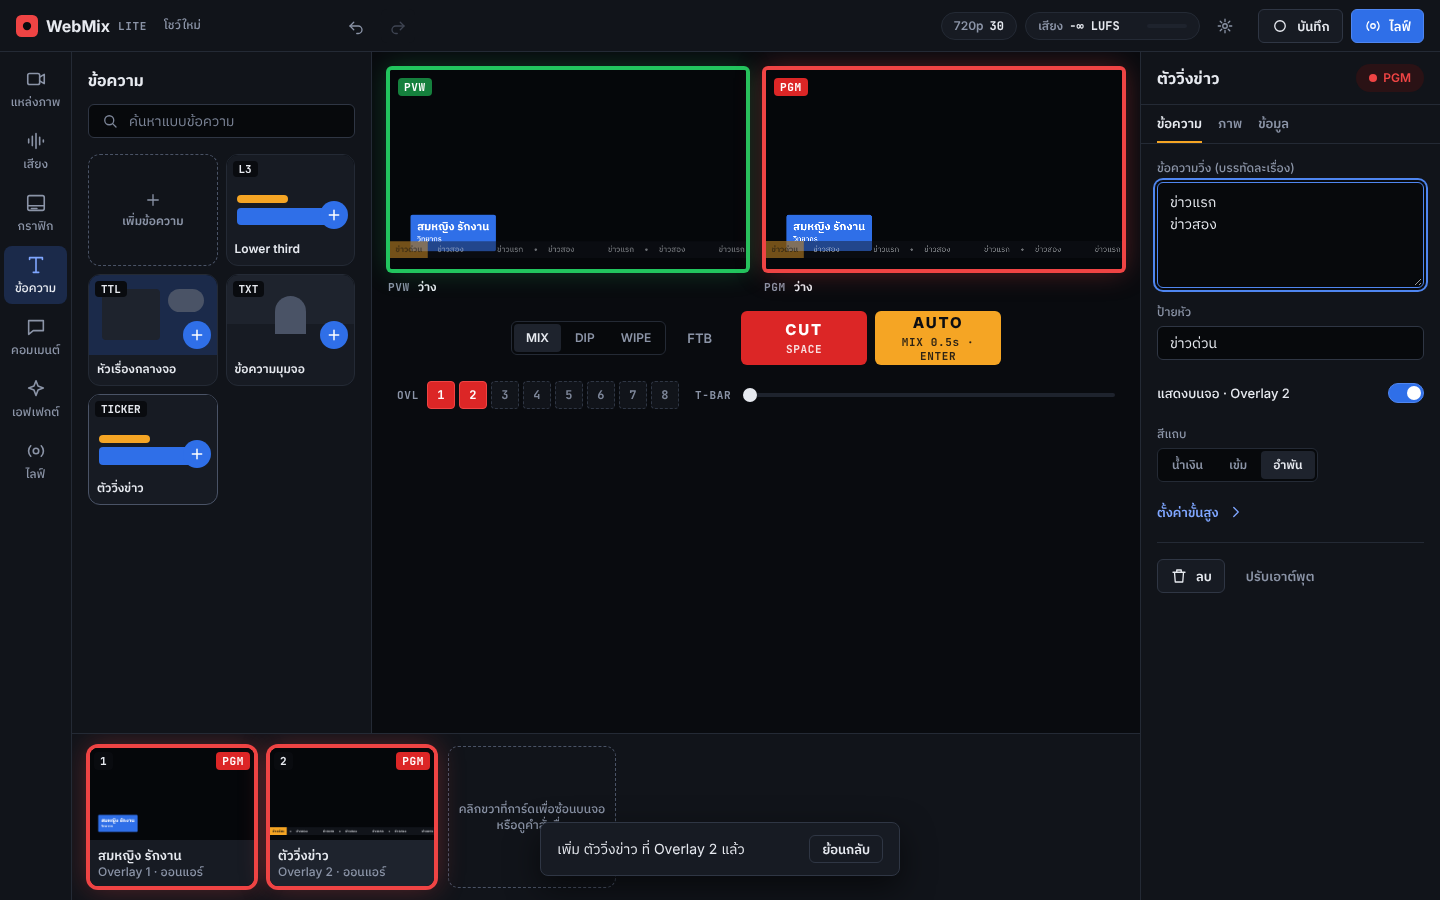
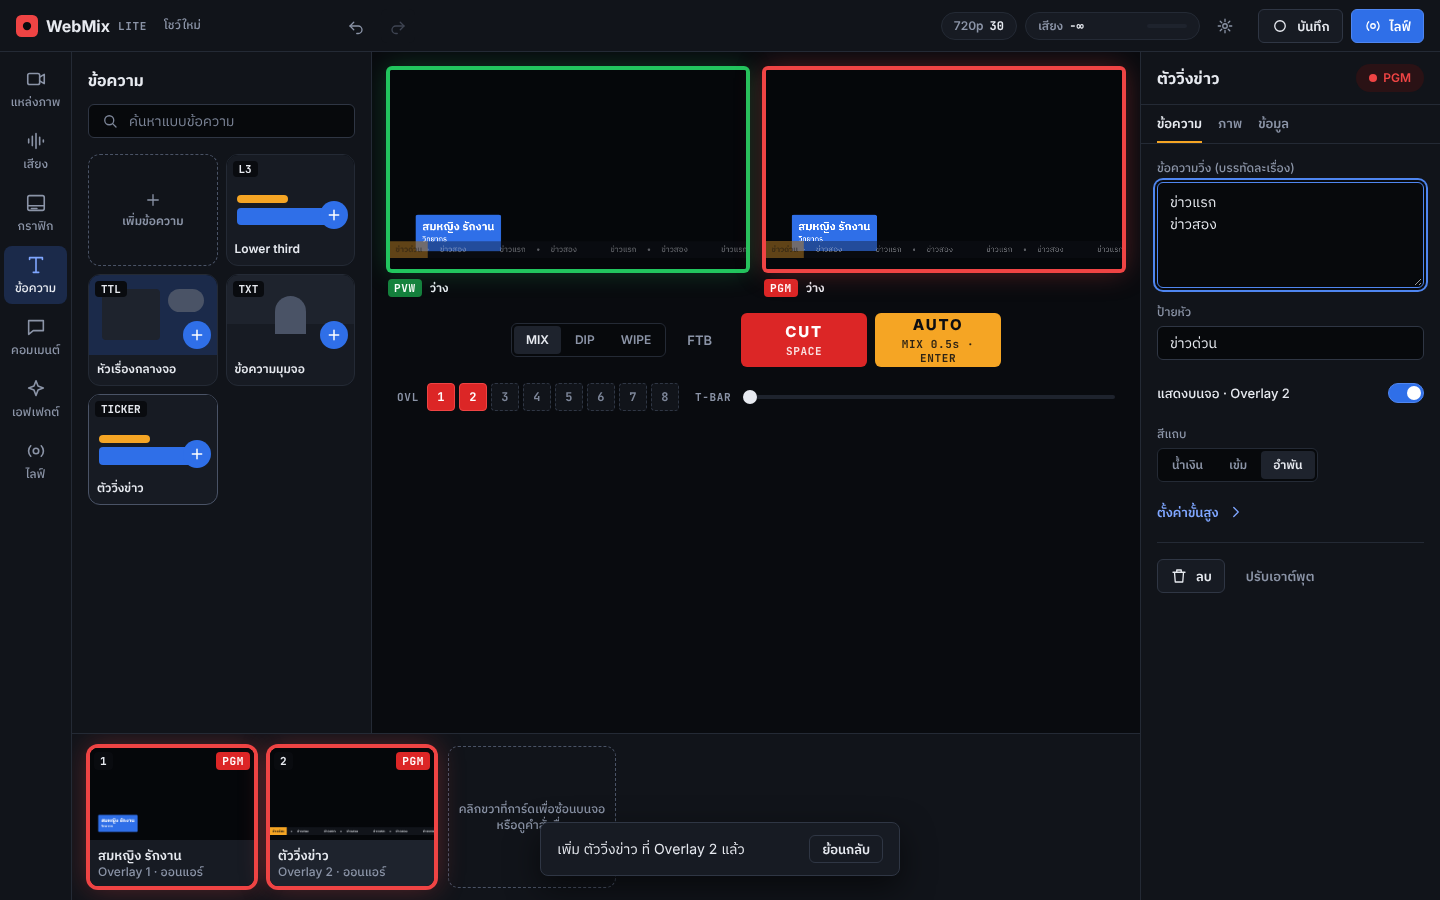
Keep monitor tally labels off the picture so corner graphics stay visible
- PVW / PGM words move from inside the monitors to filled tags in the captions below
- Scoreboard sits inside the title-safe area and is drawn larger

Claude-Session: https://claude.ai/code/session_018is4AeNXbb7A8QyXR8Seq6

diff --git a/src/engine.ts b/src/engine.ts
@@ -368,14 +368,15 @@ function drawTimer(ctx: CanvasRenderingContext2D, s: Source, W: number, H: numbe
 function drawScore(ctx: CanvasRenderingContext2D, s: Source, W: number, H: number): void {
   const p = s.props;
   const u = H / 720;
-  const x = 40 * u, rowH = 52 * u, nameW = 240 * u, scoreW = 72 * u, bar = 10 * u;
+  // inside the title-safe area (5 % in from the edges)
+  const x = 64 * u, top = 48 * u, rowH = 60 * u, nameW = 280 * u, scoreW = 84 * u, bar = 12 * u;
   const rows: [string, number, string][] = [
     [p.teamA, p.scoreA, p.colorA || tk('accent')],
     [p.teamB, p.scoreB, p.colorB || tk('pgm-fill')],
   ];
   ctx.textBaseline = 'middle';
   rows.forEach(([team, score, color], i) => {
-    const y = 40 * u + i * rowH;
+    const y = top + i * rowH;
     ctx.fillStyle = color;
     ctx.fillRect(x, y, bar, rowH);
     ctx.fillStyle = tk('panel');
@@ -384,21 +385,21 @@ function drawScore(ctx: CanvasRenderingContext2D, s: Source, W: number, H: numbe
     ctx.fillRect(x + bar + nameW, y, scoreW, rowH);
     ctx.fillStyle = tk('text');
     ctx.textAlign = 'left';
-    ctx.font = font(700, 26 * u);
+    ctx.font = font(700, 30 * u);
     ctx.fillText(team, x + bar + 16 * u, y + rowH / 2, nameW - 24 * u);
     ctx.textAlign = 'center';
-    ctx.font = font(700, 30 * u, 'font-mono');
+    ctx.font = font(700, 36 * u, 'font-mono');
     ctx.fillText(String(score), x + bar + nameW + scoreW / 2, y + rowH / 2);
   });
   if (p.period) {
-    const y = 40 * u + rowH * 2;
-    ctx.font = font(600, 22 * u);
-    const pw = ctx.measureText(p.period).width + 24 * u;
+    const y = top + rowH * 2;
+    ctx.font = font(600, 26 * u);
+    const pw = ctx.measureText(p.period).width + 28 * u;
     ctx.fillStyle = tk('amber');
-    ctx.fillRect(x, y, pw, 36 * u);
+    ctx.fillRect(x, y, pw, 42 * u);
     ctx.fillStyle = tk('on-amber');
     ctx.textAlign = 'left';
-    ctx.fillText(p.period, x + 12 * u, y + 18 * u);
+    ctx.fillText(p.period, x + 14 * u, y + 21 * u);
   }
 }
 

diff --git a/tests/graphics.spec.ts b/tests/graphics.spec.ts
@@ -153,7 +153,15 @@ test('countdown timer runs, pauses and resets', async ({ page }) => {
 
 test('scoreboard buttons and title presets', async ({ page }) => {
   await page.goto('/');
+  await addTile(page, 'source', 'bars');
   await addTile(page, 'graphic', 'g-score');
+  // nothing sits on top of the pictures: the tally words live under the monitors
+  for (const id of ['#mon-pvw', '#mon-pgm']) {
+    expect(await page.locator(`${id} > *`).evaluateAll((els) => els.map((e) => e.tagName))).toEqual(['CANVAS']);
+  }
+  await expect(page.locator('#cap-pgm .mon__tag--pgm')).toHaveText('PGM');
+  // the scoreboard is drawn inside the title-safe corner, over the bars
+  await expect.poll(() => pgmPixel(page, 0.1, 0.1)).not.toEqual([191, 191, 191]);
   const plusA = insp(page).locator('[data-act="score"][data-team="A"][data-d="1"]');
   await plusA.click();
   await plusA.click();
@@ -169,7 +177,7 @@ test('scoreboard buttons and title presets', async ({ page }) => {
   await insp(page).locator('[data-prop="p:title"]').fill('คนอื่น');
   await insp(page).locator('[data-act="preset"]').first().click();
   await expect(insp(page).locator('[data-prop="p:title"]')).toHaveValue('สมชาย ใจดี');
-  await expect(cards(page).nth(1)).toContainText('สมชาย ใจดี');
+  await expect(cards(page).nth(2)).toContainText('สมชาย ใจดี');
 });
 
 test('ticker items and live data from a Google Sheet', async ({ page }) => {

diff --git a/src/main.ts b/src/main.ts
@@ -985,8 +985,9 @@ function renderStrip(): void {
 function renderTally(): void {
   const pvw = byId(scene.pvw);
   const pgm = byId(trans?.to ?? scene.pgm);
-  $('#cap-pvw').innerHTML = `<span class="tag">PVW</span><span class="mon__name" data-testid="pvw-name">${pvw ? esc(pvw.name) : 'ว่าง'}</span>`;
-  $('#cap-pgm').innerHTML = `<span class="tag">PGM</span><span class="mon__name" data-testid="pgm-name">${pgm ? esc(pgm.name) : 'ว่าง'}</span>`;
+  // the tally word sits under the picture, never over it, so graphics in the corners stay visible
+  $('#cap-pvw').innerHTML = `<span class="tag mon__tag mon__tag--pvw">PVW</span><span class="mon__name" data-testid="pvw-name">${pvw ? esc(pvw.name) : 'ว่าง'}</span>`;
+  $('#cap-pgm').innerHTML = `<span class="tag mon__tag mon__tag--pgm">PGM</span><span class="mon__name" data-testid="pgm-name">${pgm ? esc(pgm.name) : 'ว่าง'}</span>`;
   $('#mon-pgm').dataset.source = scene.pgm ?? '';
   $('#mon-pvw').dataset.source = scene.pvw ?? '';
   document.querySelectorAll<HTMLElement>('#strip .wm-card').forEach((el) => {

diff --git a/src/app.css b/src/app.css
@@ -97,6 +97,9 @@ button, input { font: inherit; color: inherit; }
 .wm-mon canvas { display: block; width: 100%; height: 100%; }
 .wm-mon.is-drop { outline: 2px dashed var(--accent-line); outline-offset: 4px; }
 .mon__cap { display: flex; align-items: center; gap: var(--space-2); font: 500 12px/16px var(--font-sans); color: var(--muted); min-width: 0; }
+.mon__tag { flex: none; padding: 2px 6px; border-radius: var(--radius-xs); color: var(--on-accent); }
+.mon__tag--pvw { background: var(--pvw-fill); }
+.mon__tag--pgm { background: var(--pgm-fill); }
 .mon__name { color: var(--text); font-weight: 600; white-space: nowrap; overflow: hidden; text-overflow: ellipsis; }
 .trans { display: flex; align-items: center; justify-content: center; gap: var(--space-4); flex-wrap: wrap; }
 .trans__seg { display: flex; align-items: center; gap: var(--space-2); }

diff --git a/index.html b/index.html
@@ -17,14 +17,12 @@
         <figure class="mon">
           <div class="wm-mon is-pvw" id="mon-pvw" data-drop="pvw">
             <canvas id="cv-pvw" width="640" height="360" aria-label="จอพรีวิว (PVW)"></canvas>
-            <span class="wm-mon__tag">PVW</span>
           </div>
           <figcaption class="mon__cap" id="cap-pvw"></figcaption>
         </figure>
         <figure class="mon">
           <div class="wm-mon is-pgm" id="mon-pgm" data-drop="pgm">
             <canvas id="cv-pgm" width="1280" height="720" aria-label="จอออกอากาศ (PGM)"></canvas>
-            <span class="wm-mon__tag">PGM</span>
           </div>
           <figcaption class="mon__cap" id="cap-pgm"></figcaption>
         </figure>
